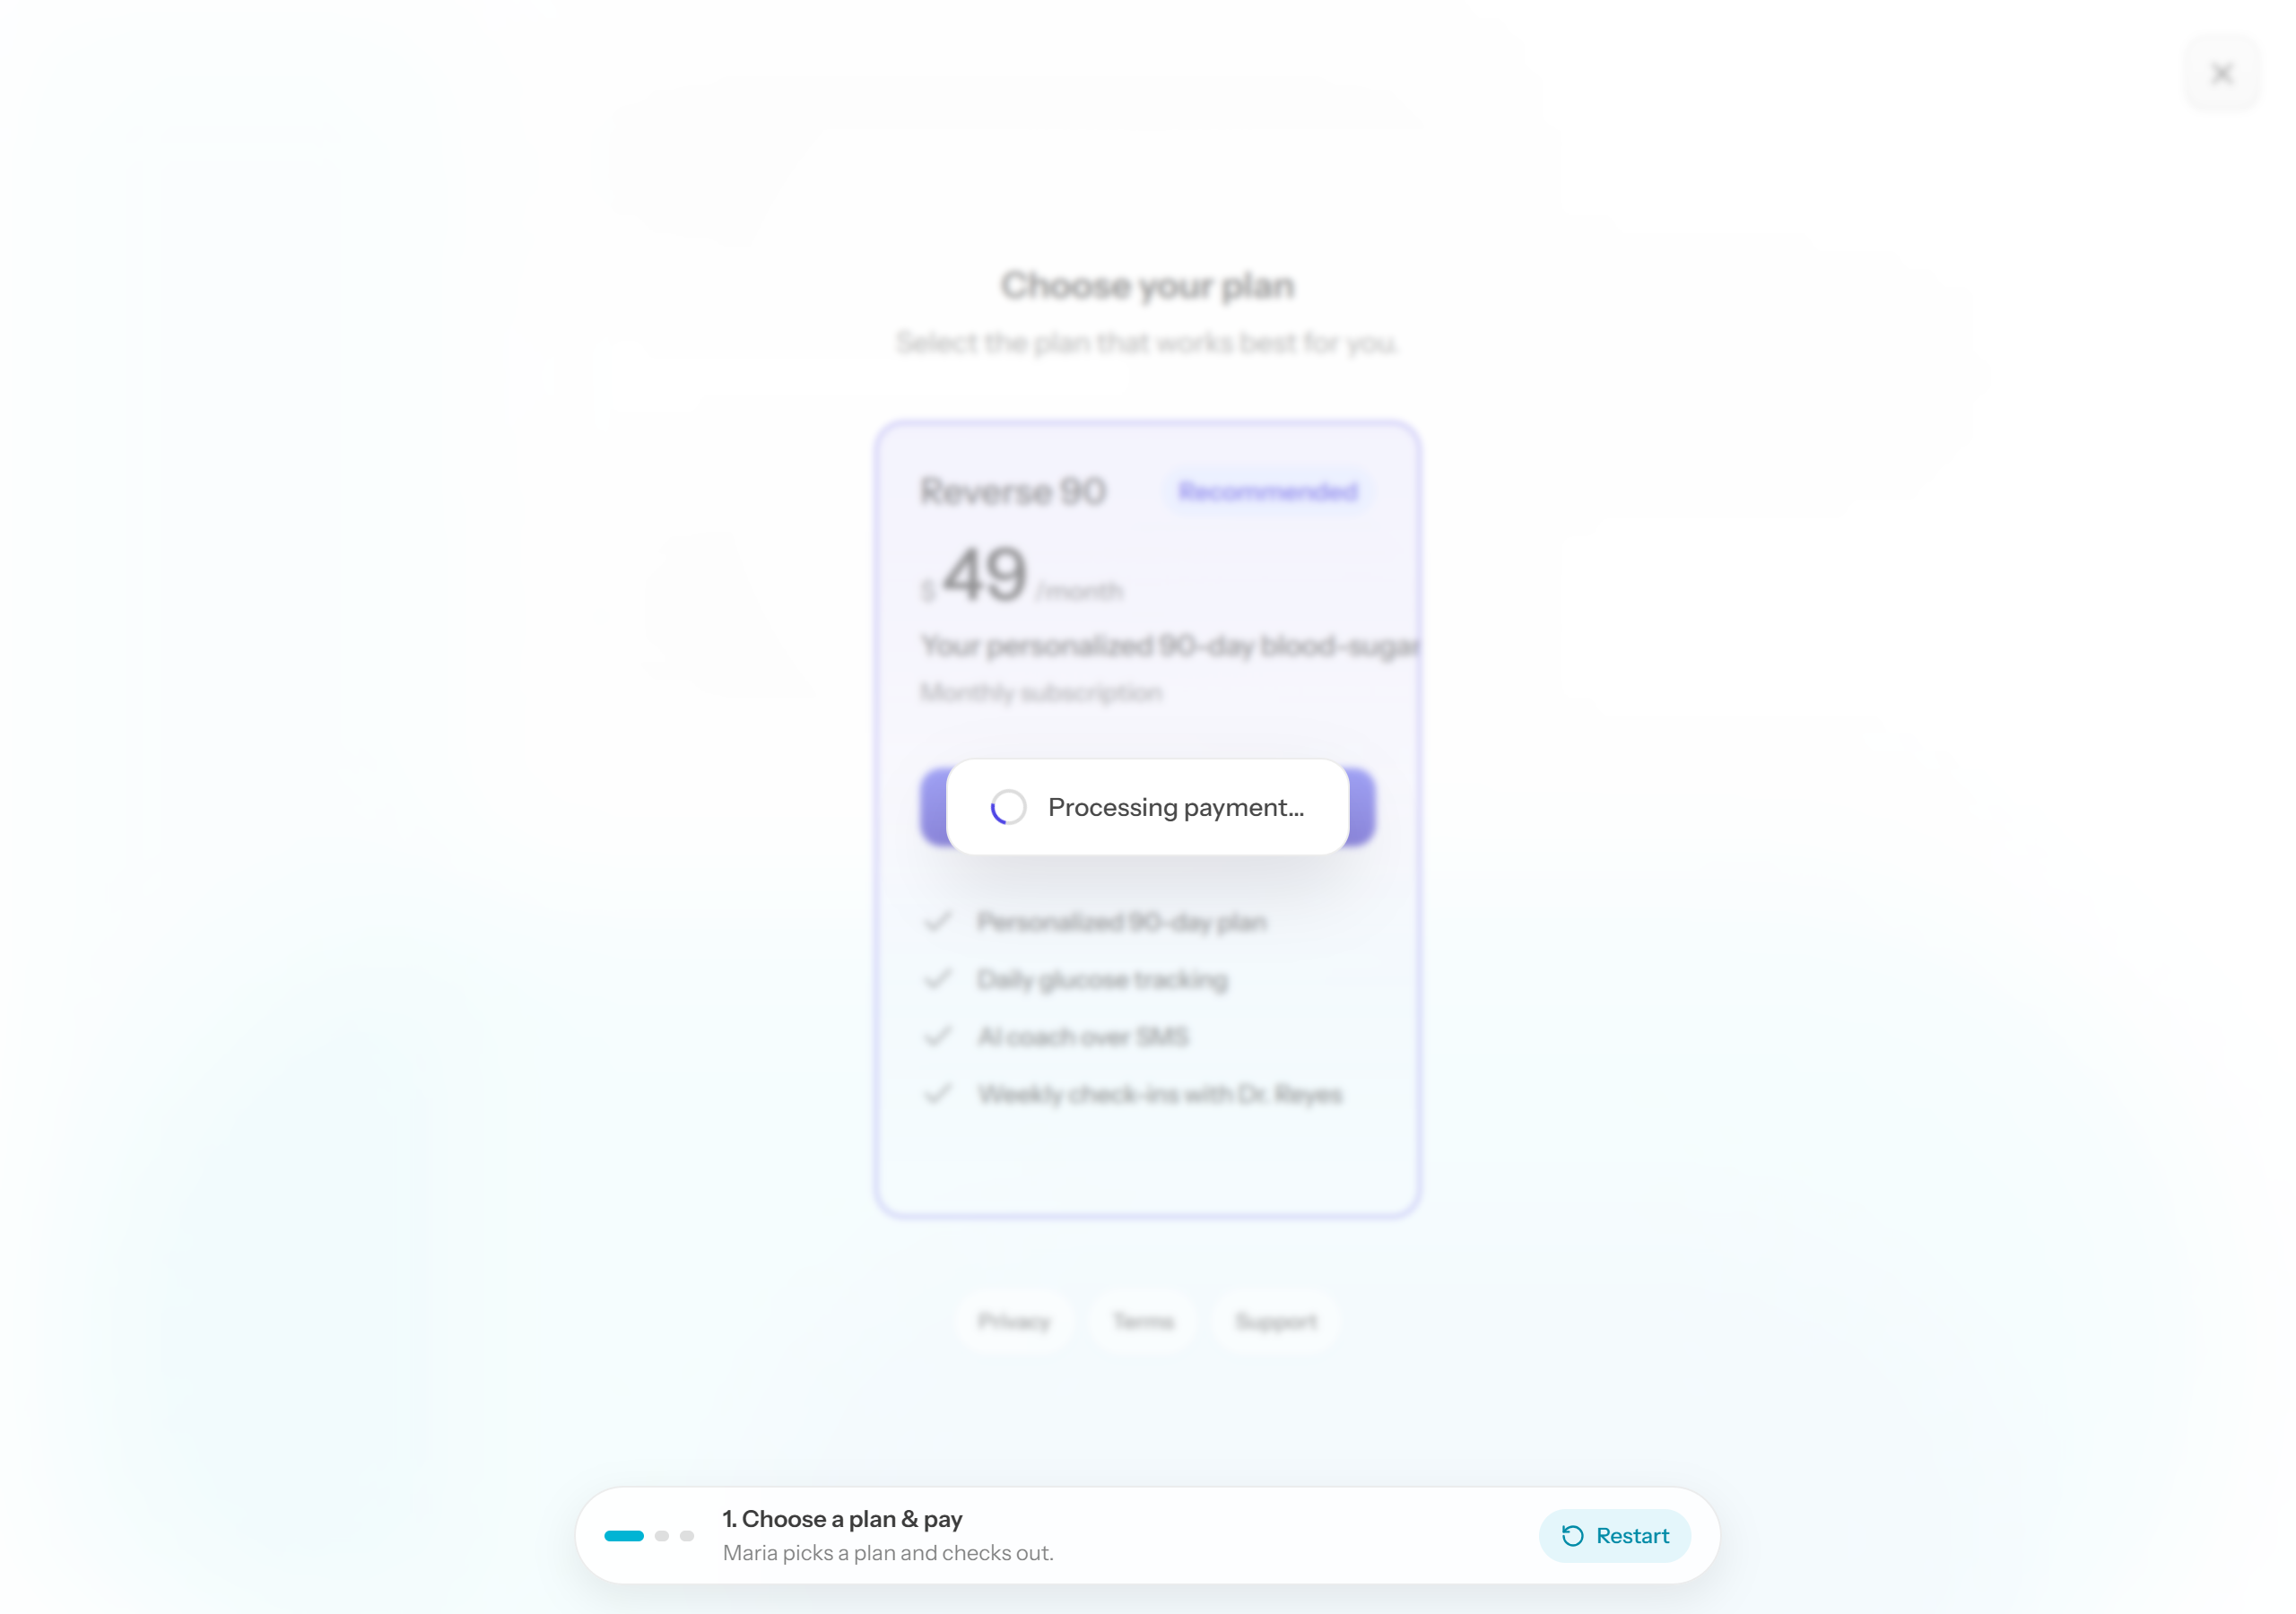
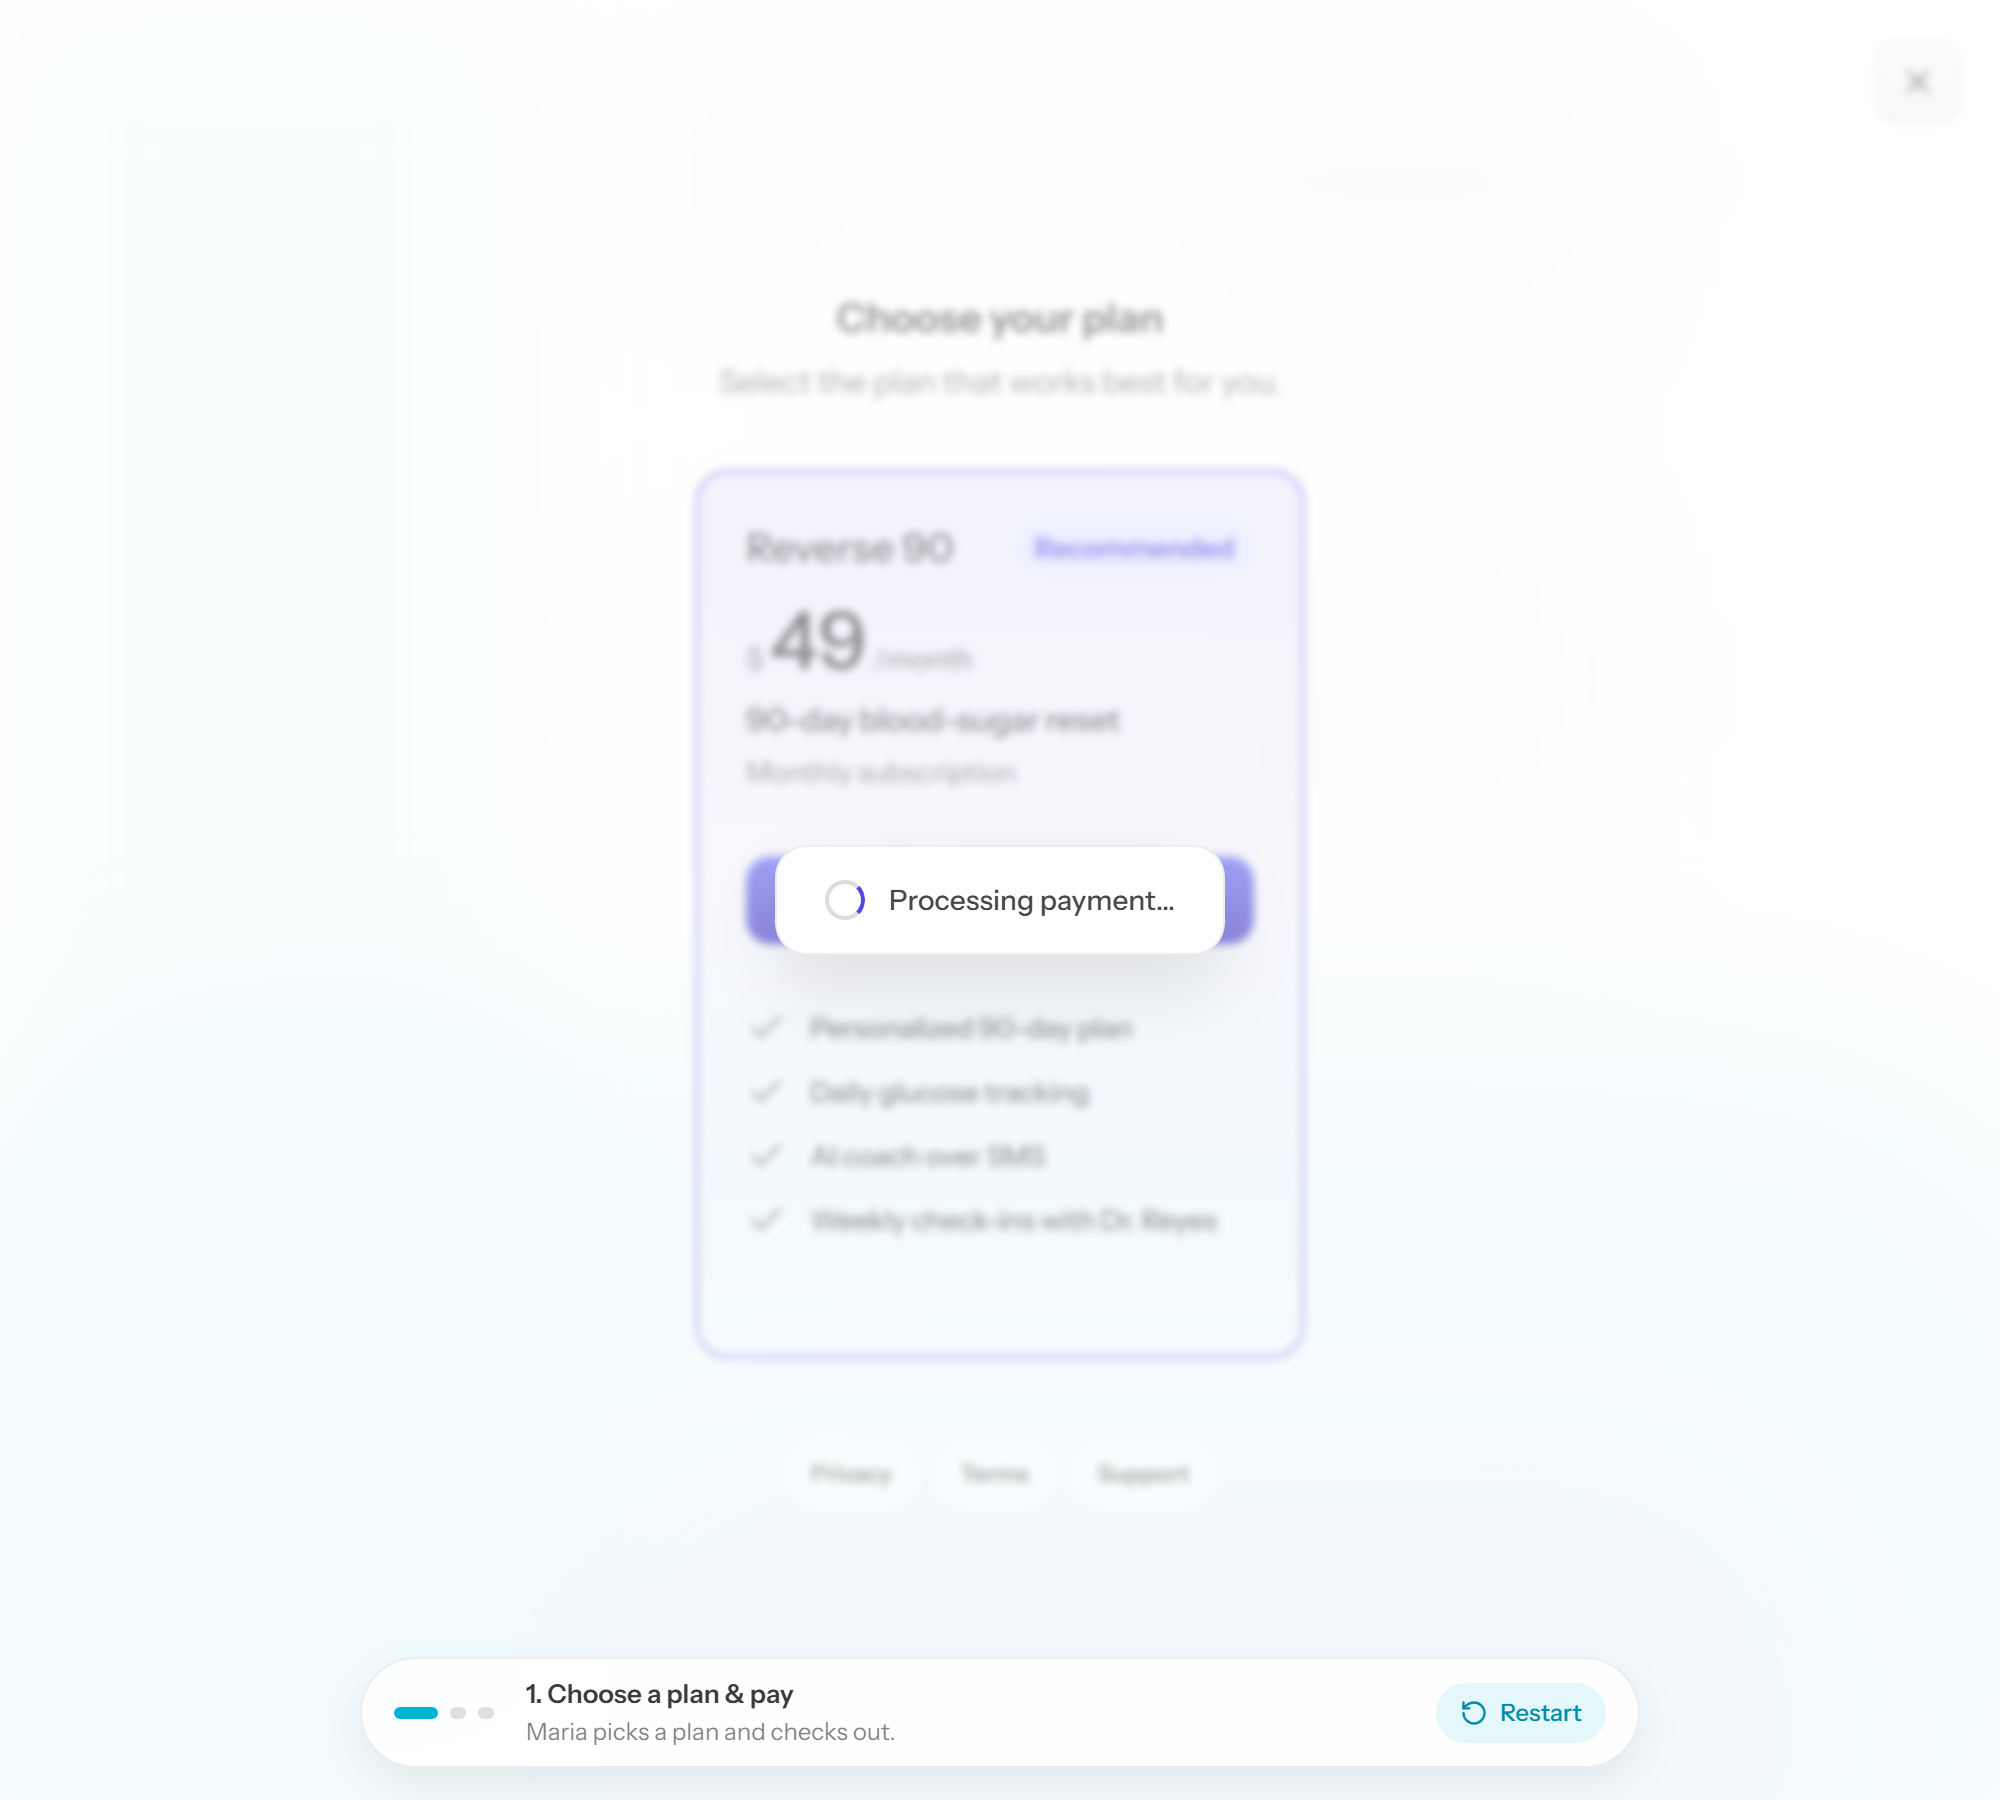
Demo: shorten paywall plan description so it fits the card
WLPaidPlansList renders the description with whitespace-nowrap, so the long
'Your personalized 90-day blood-sugar reset' overflowed the card border. Shortened
to '90-day blood-sugar reset'.

diff --git a/wl-harness/src/mocks/electronMocks.tsx b/wl-harness/src/mocks/electronMocks.tsx
@@ -65,7 +65,9 @@ const DEMO_PRODUCT_STATE = {
     {
       id: 'price_monthly',
       name: 'Reverse 90',
-      description: 'Your personalized 90-day blood-sugar reset',
+      // keep short: WLPaidPlansList renders the description with whitespace-nowrap,
+      // so a long string overflows the card border
+      description: '90-day blood-sugar reset',
       amount_display: '$49/mo',
       billing_interval: 'monthly',
       plan_type: 'subscription',

diff --git a/wl-plans-view/index.html b/wl-plans-view/index.html
@@ -6,8 +6,8 @@
   <title>SMS Account Creation — Demo (real components)</title>
   <link rel="preconnect" href="https://fonts.googleapis.com" />
   <link href="https://fonts.googleapis.com/css2?family=Instrument+Sans:wght@400;500;600&display=swap" rel="stylesheet" />
-  <script type="module" crossorigin src="./assets/index-Ivlh8RNU.js"></script>
-  <link rel="modulepreload" crossorigin href="./assets/WLMetricCheckInDialog-04d_AU-s.js">
+  <script type="module" crossorigin src="./assets/index-D9C6OXsT.js"></script>
+  <link rel="modulepreload" crossorigin href="./assets/WLMetricCheckInDialog-CEwauWYf.js">
   <link rel="stylesheet" crossorigin href="./assets/WLMetricCheckInDialog-DMJgnGUD.css">
 </head>
 <body>

diff --git a/wl-plans-view/plans.html b/wl-plans-view/plans.html
@@ -6,8 +6,8 @@
   <title>Plans — White-Label Client View (real components)</title>
   <link rel="preconnect" href="https://fonts.googleapis.com" />
   <link href="https://fonts.googleapis.com/css2?family=Instrument+Sans:wght@400;500;600&display=swap" rel="stylesheet" />
-  <script type="module" crossorigin src="./assets/plans-CFbNc64S.js"></script>
-  <link rel="modulepreload" crossorigin href="./assets/WLMetricCheckInDialog-04d_AU-s.js">
+  <script type="module" crossorigin src="./assets/plans-BGWpyeDV.js"></script>
+  <link rel="modulepreload" crossorigin href="./assets/WLMetricCheckInDialog-CEwauWYf.js">
   <link rel="stylesheet" crossorigin href="./assets/WLMetricCheckInDialog-DMJgnGUD.css">
 </head>
 <body>